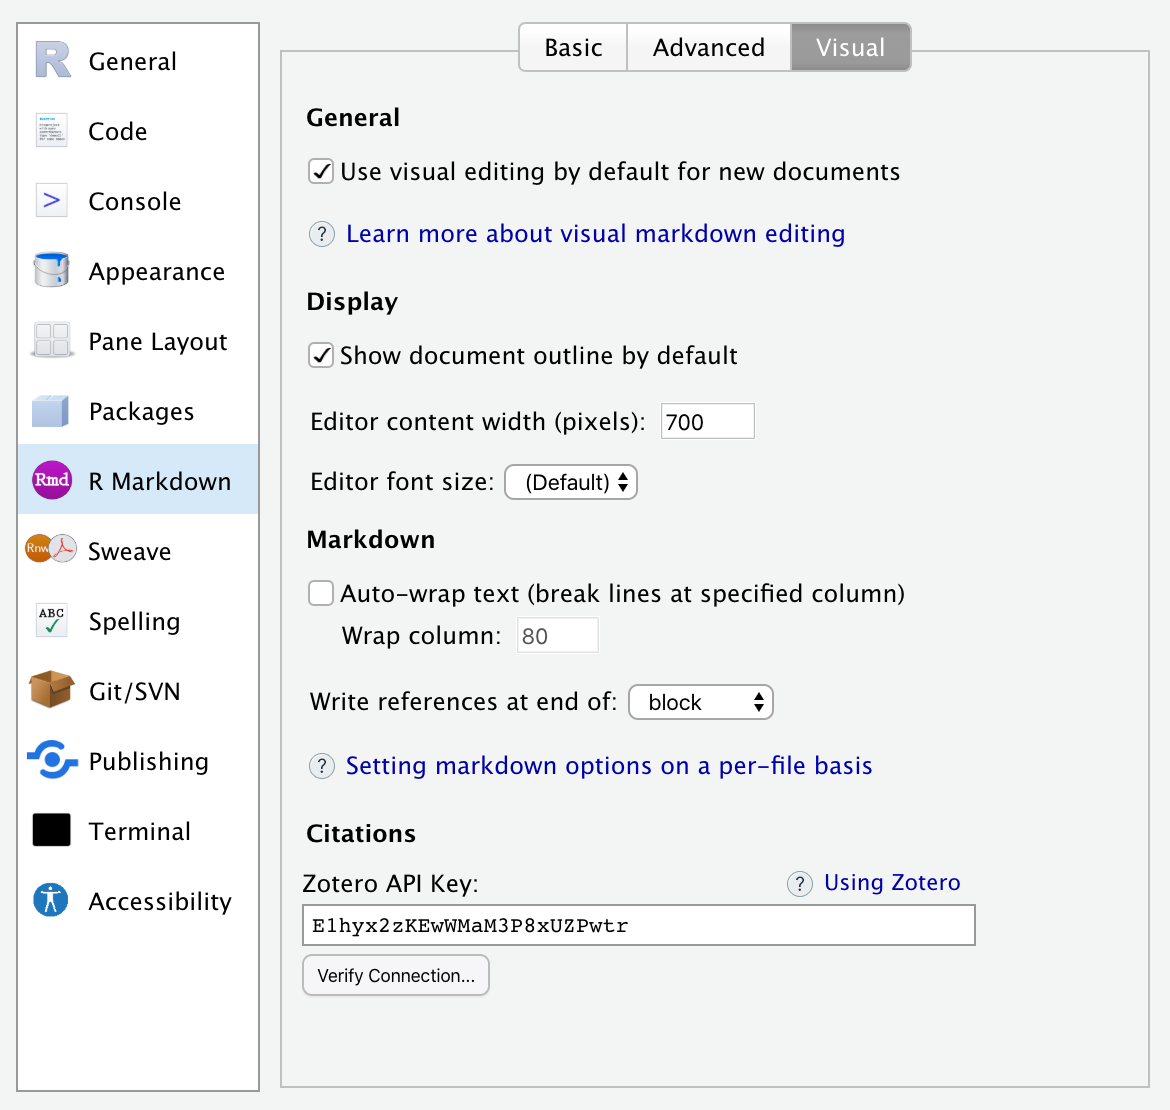
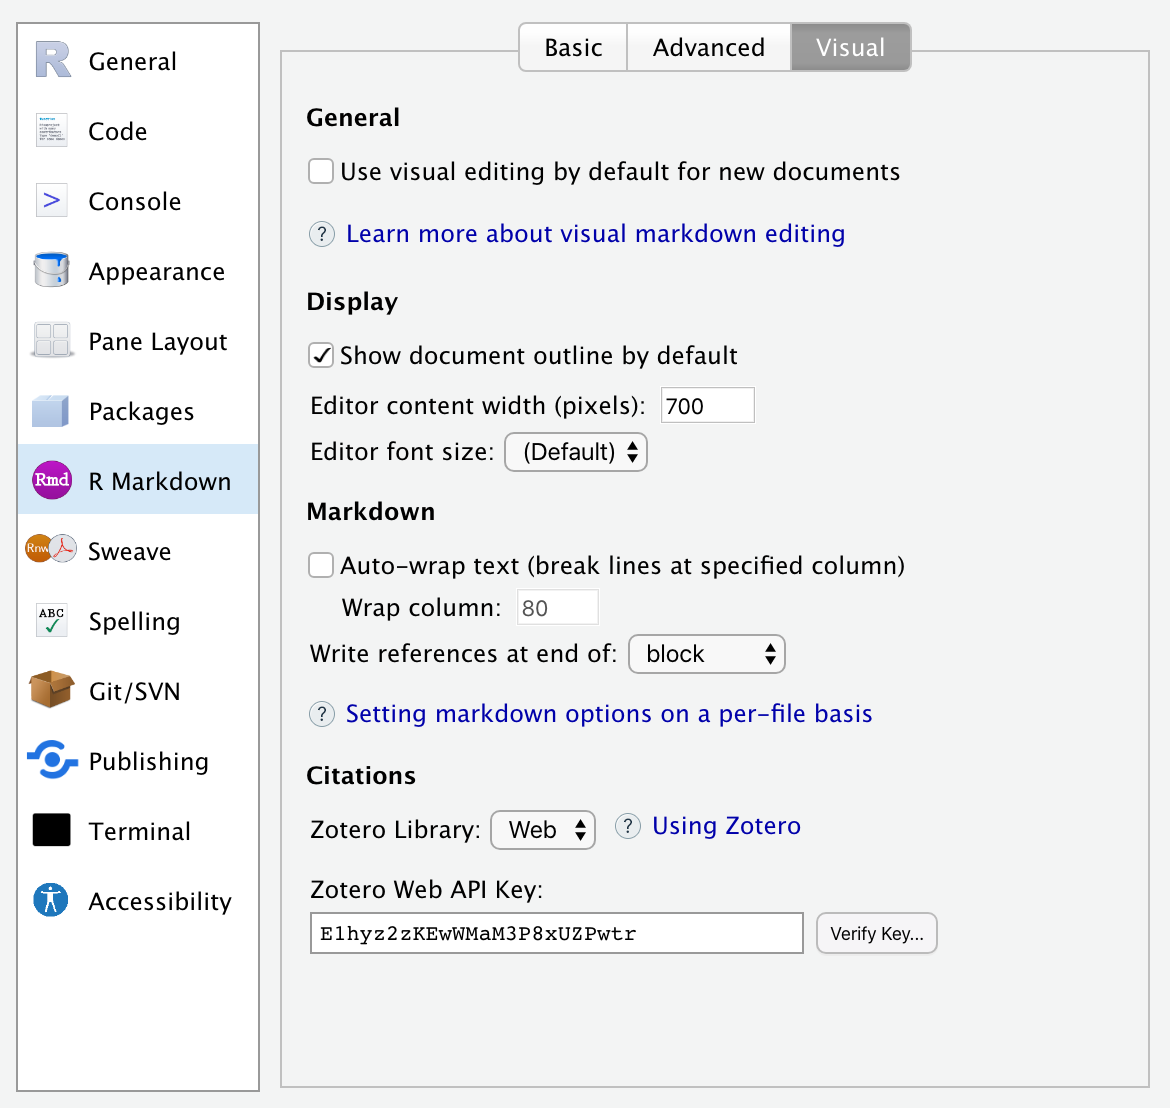
docs for zotero local mode

diff --git a/docs/additional.md b/docs/additional.md
@@ -121,13 +121,15 @@ For example, here's what a YouTube snippet looks like within an HTML block:
 
 ?\> Note that you can also create an HTML block with a markdown shortcut. Just type ```` ```{=html} ```` and press **Enter** to create the block.
 
-## Using Zotero
+## Zotero Web API
 
-The [Citations](technical#citations-from-zotero) article covers how to include citations from [Zotero](https://zotero.org) libraries in your documents. However, before doing this some setup and configuration is required.
+If you are using RStudio Server and/or don't have Zotero installed locally, you can still access your Zotero library using the Zotero Web API (assuming you have a Zotero web account and have synced your libraries to your account).
+
+?\> If you are running RStudio Desktop, it's generally easier to also run Zotero on your desktop and access your library locally. That said, it is possible to access Zotero web libraries from RStudio Desktop if you prefer that configuration.
 
 ### API Access Key
 
-RStudio accesses Zotero libraries using the Zotero API, so the first step is to [create a Zotero account](https://www.zotero.org/user/register) and then configure Zotero to sync it's data to your account. You can do this using the **Sync** tab of the Zotero preferences:
+RStudio accesses Zotero web libraries using the Zotero Web API, so the first step is to [create a Zotero account](https://www.zotero.org/user/register) and then configure Zotero to sync it's data to your account. You can do this using the **Sync** tab of the Zotero preferences:
 
 <img src="images/visual-editing-citations-zotero-sync.png" width="700"/>
 
@@ -141,34 +143,6 @@ Finally, go to the **R Markdown -\> Visual** preferences to connect Zotero to RS
 
 <img src="images/visual-editing-citations-zotero-options.png" class="illustration" width="585"/>
 
-You can use **Verify Connection...** button to confirm that your Zotero API key is working correctly.
+Set the Zotero Library option to "Web", then paste in your Zotero Web API Key. You can use **Verify Key...** button to confirm that your Zotero API key is working correctly.
 
-### Zotero YAML
-
-Once you've setup the connection, add the `zotero` YAML metadata field to your document (or to your `index.Rmd` for bookdown projects) to enable inerting citations from Zotero. For example:
-
-``` yaml
----
-title: "My Document"
-bibliography: references.bib
-zotero: true
----
-```
-
-The above configuration will search your entire Zotero library. If you organize your Zotero library into collections then its highly recommended that you specify a subset of your collections to narrow search results to only items relevant to your current document. For example:
-
-``` yaml
----
-title: "My Document"
-bibliography: references.bib
-zotero: "Thesis"
----
-```
-
-### Inserting Citations
-
-Now, when you insert a citation you'll be able to search and insert items from the specified Zotero collection(s):
-
-![](images/visual-editing-citation-search.png)
-
-Items from Zotero will appear alongside items from your bibliography with a small "Z" logo juxtoposed over them. If you insert a citation from Zotero that isn’t already in your bibliography then it will be automatically added to the bibliography.
+Once you've confirmed your connection you are ready to start inserting citations from Zotero. See the [Citations from Zotero](technical#citations-from-zotero) article for additional detals.

diff --git a/docs/technical.md b/docs/technical.md
@@ -51,9 +51,7 @@ Once you've confirmed that it's the correct work (and possibly modified the sugg
 
 ### Citations from Zotero
 
-If you are using a BibTeX bibliography (.bib extension) you can also insert citations directly from [Zotero](https://zotero.org) libraries. See the [Using Zotero](additional#using-zotero) article for in depth details on connecting RStudio to your Zotero library.
-
-Once you've done the required setup, add the `zotero` YAML metadata field to your documents (or to your `index.Rmd` for bookdown projects). For example:
+You can also insert citations directly from [Zotero](https://zotero.org) libraries. To do this, add the `zotero` YAML metadata field to your documents (or to your `index.Rmd` for bookdown projects). For example:
 
 ``` yaml
 ---
@@ -79,7 +77,9 @@ Now, when you insert a citation you'll be able to search and insert items from t
 
 Items from Zotero will appear alongside items from your bibliography with a small "Z" logo juxtoposed over them. If you insert a citation from Zotero that isn’t already in your bibliography then it will be automatically added to the bibliography.
 
-?\>To use Zotero you need to sync your Zotero library to the web and setup a connection between Zotero and RStudio. See the [Using Zotero](additional#using-zotero) article for additional details on how to do this.
+#### Desktop vs. Web
+
+If you are running both RStudio and Zotero on your desktop, then no special configuration is required for connecting to your Zotero library. If however you using RStudio Server and/or want to access your Zotero library over the web, then a few more steps are required. See the [Zotero Web API](additional#zotero-web-api) article for additonal details.
 
 ## Cross References
 

diff --git a/docs/options.md b/docs/options.md
@@ -14,6 +14,7 @@ You can customize visual editing options within the **R Markdown -\> Visual** pr
 | Editor font size                 | Base font size for editor content (default: inherit from IDE settings).                                                                                                                  |
 | Auto-wrap text                   | When writing markdown paragraphs, automatically break lines at a specified column (default: flow text; no auto-wrapping). See [Line Wrapping](markdown?id=line-wrapping) for details.    |
 | Write references at end of       | Write references (footnotes) at the end of the block or section where they appear, or at the end of the document (default: block). See [References](markdown?id=references) for details. |
+| Zotero Library                   | Location of [Zotero](technical#citations-from-zotero) citation library (Local or Web).                                                                                                   |
 
 ## File Options
 
